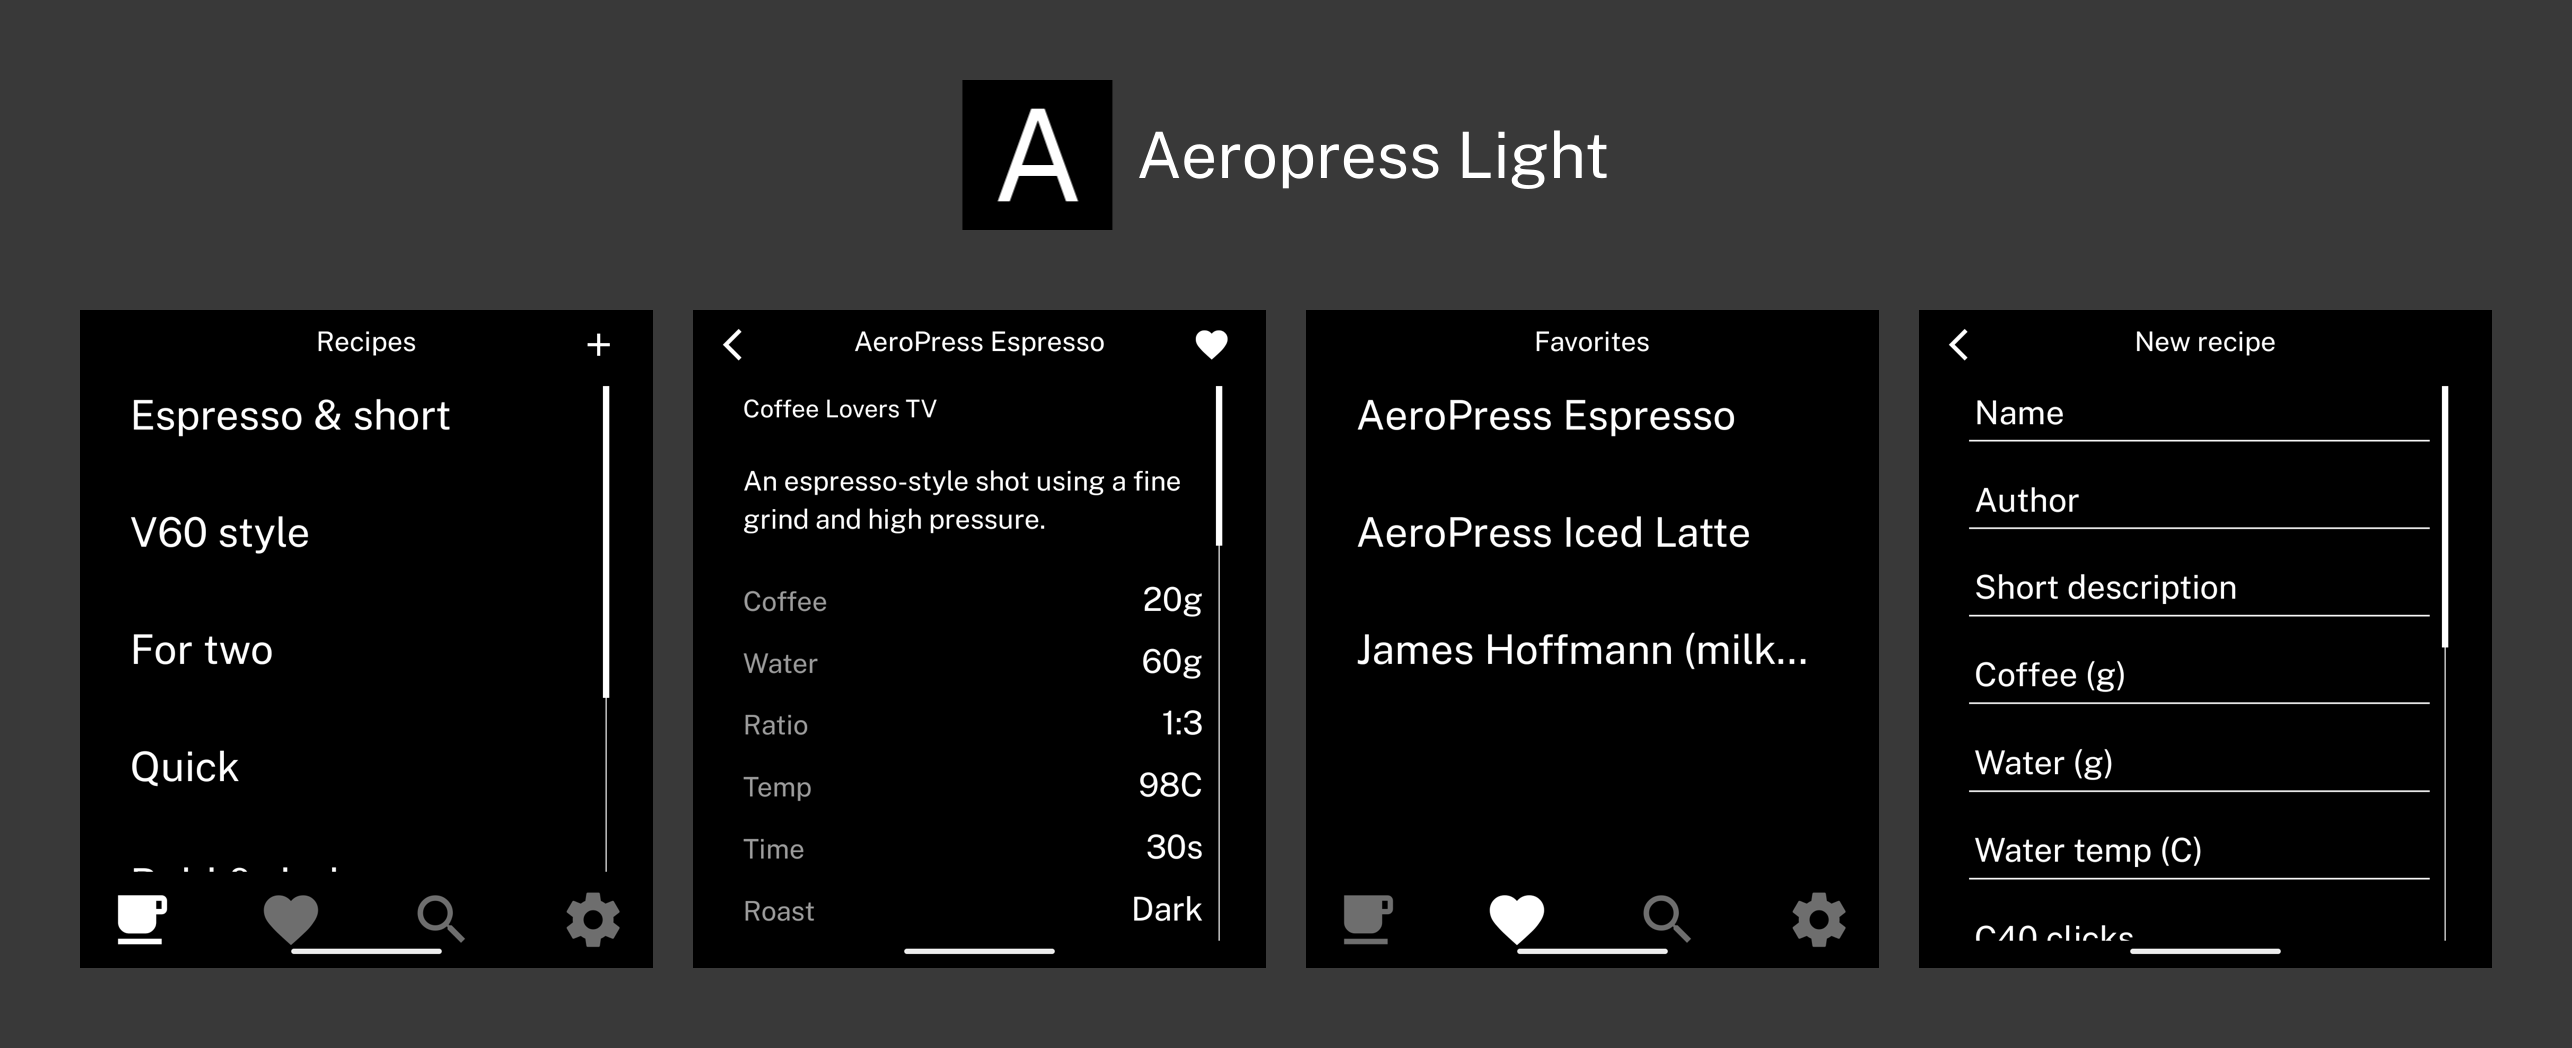
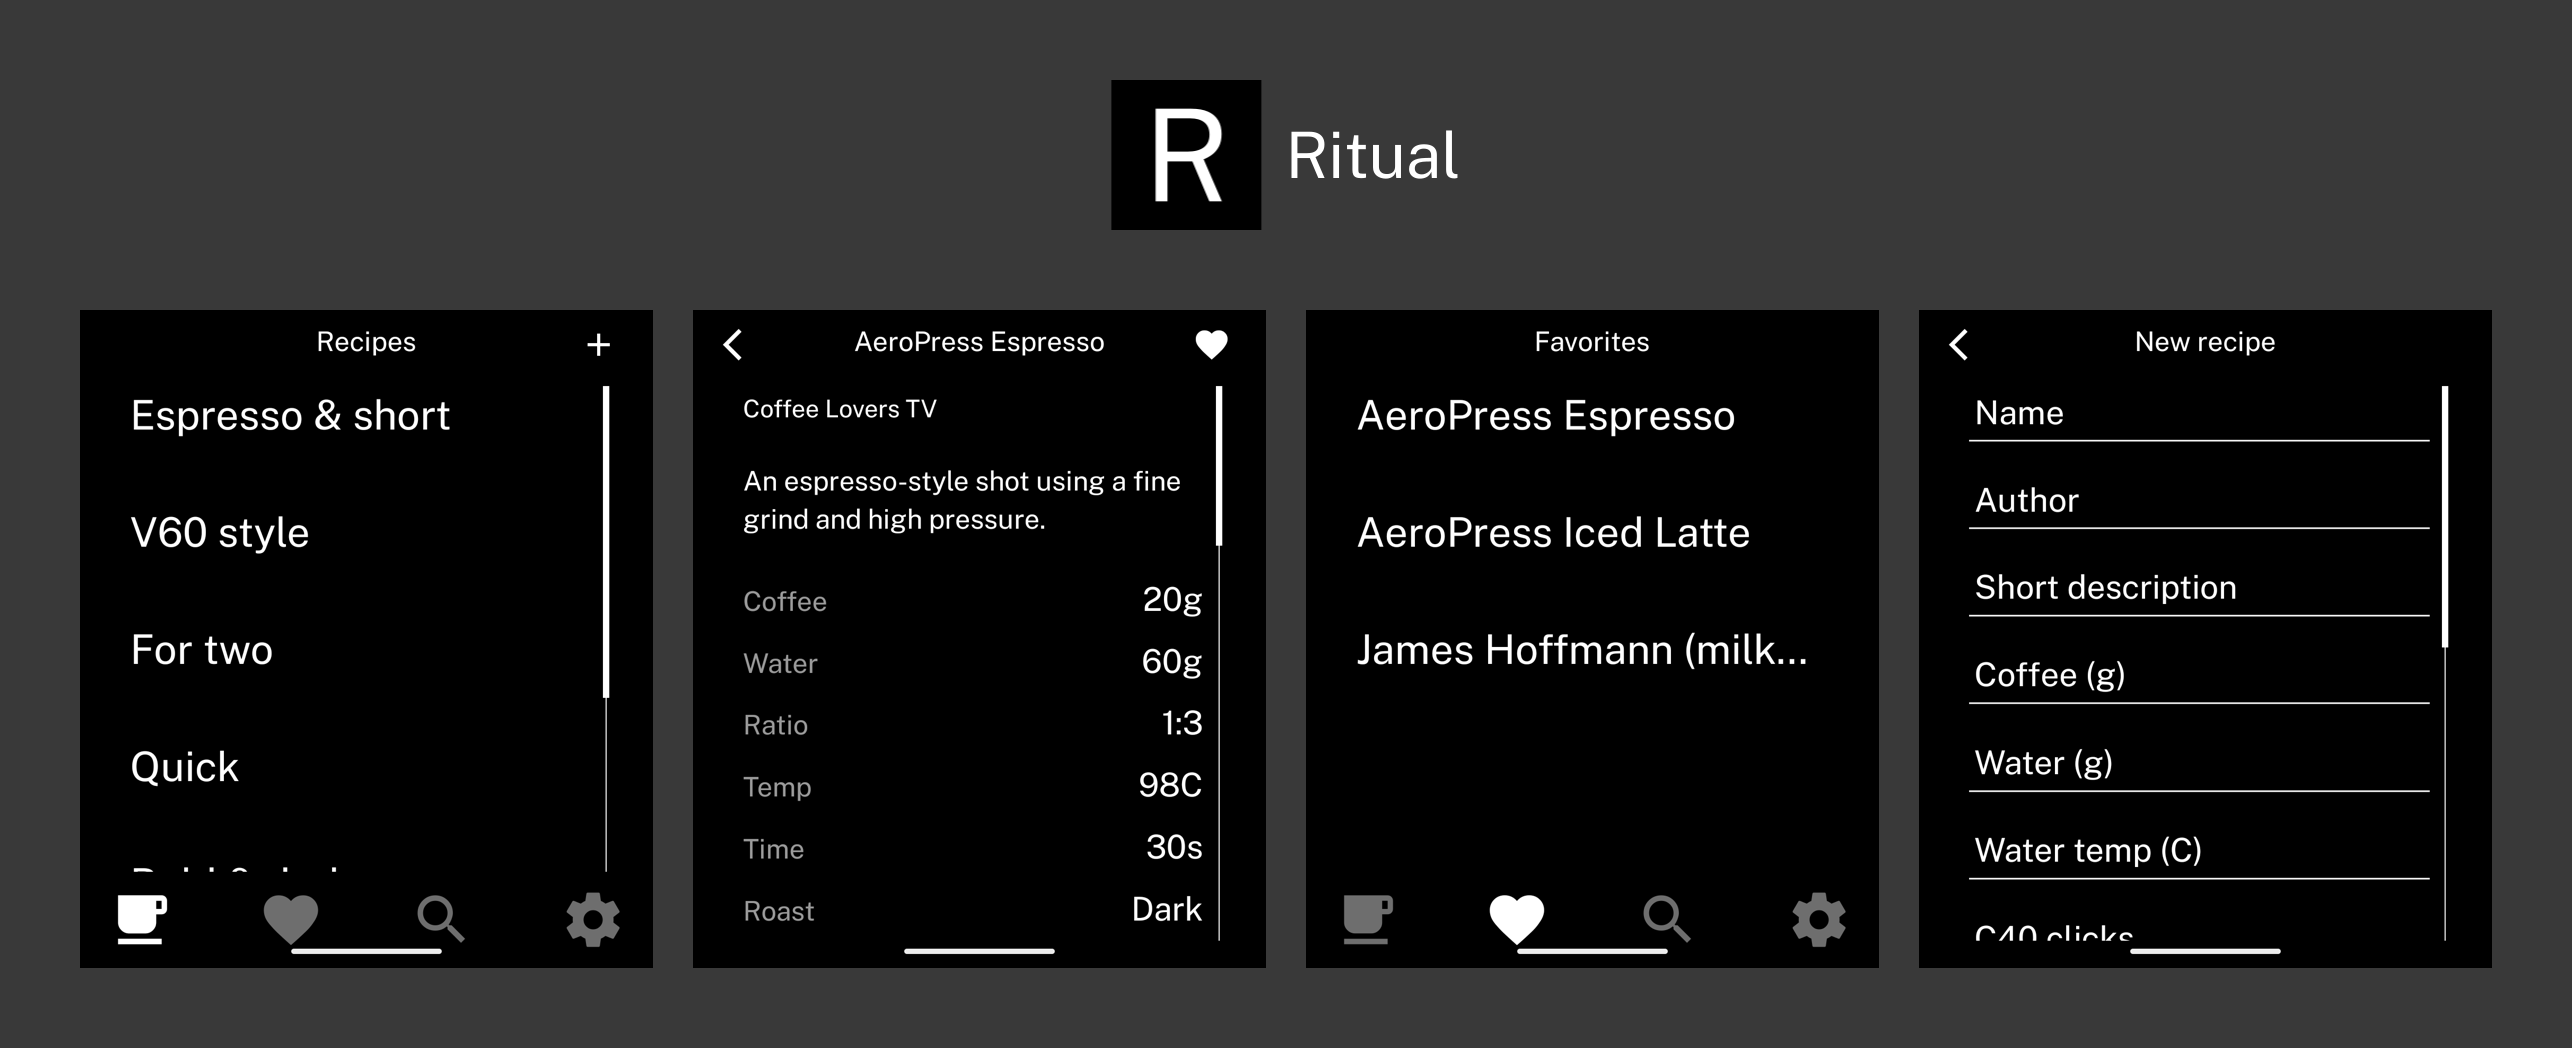
Rename app to Ritual
Update display name, slug, deep-link scheme, npm package, Android
package id (com.vandam.ritual), Kotlin source dir, README, and the
generated screenshot collage.

Changed region(s): [[0.3733, 0.0611, 0.6221, 0.2443]]

diff --git a/README.md b/README.md
@@ -1,16 +1,16 @@
-<img src="assets/images/example.png" alt="Aeropress Light Screenshots">
+<img src="assets/images/example.png" alt="Ritual Screenshots">
 
 <p>An AeroPress recipe guide for the Light Phone III.</p>
 
-![GitHub License](https://img.shields.io/github/license/KEZO555/aeropress-light?)
-![GitHub Release](https://img.shields.io/github/v/release/KEZO555/aeropress-light?)
+![GitHub License](https://img.shields.io/github/license/KEZO555/ritual?)
+![GitHub Release](https://img.shields.io/github/v/release/KEZO555/ritual?)
 
 > [!NOTE]
 > Built for the minimal, greyscale screen of the Light Phone III. It runs as a standalone app with every recipe bundled in, so no account, network, or scale is required to brew.
 
 ## Installation
 
-Download the latest APK from the [releases page](https://github.com/KEZO555/aeropress-light/releases/latest) and sideload it onto your Light Phone III.
+Download the latest APK from the [releases page](https://github.com/KEZO555/ritual/releases/latest) and sideload it onto your Light Phone III.
 
 I recommend using [Obtainium](https://github.com/ImranR98/Obtainium) to install and keep the app up to date directly from this repository.
 
@@ -31,7 +31,7 @@ I recommend using [Obtainium](https://github.com/ImranR98/Obtainium) to install 
 The Light Phone III renders everything in greyscale. To grant this app the secure-settings permission via adb:
 
 ```bash
-adb shell pm grant com.vandam.aeropresslight android.permission.WRITE_SECURE_SETTINGS
+adb shell pm grant com.vandam.ritual android.permission.WRITE_SECURE_SETTINGS
 ```
 
 ## Development